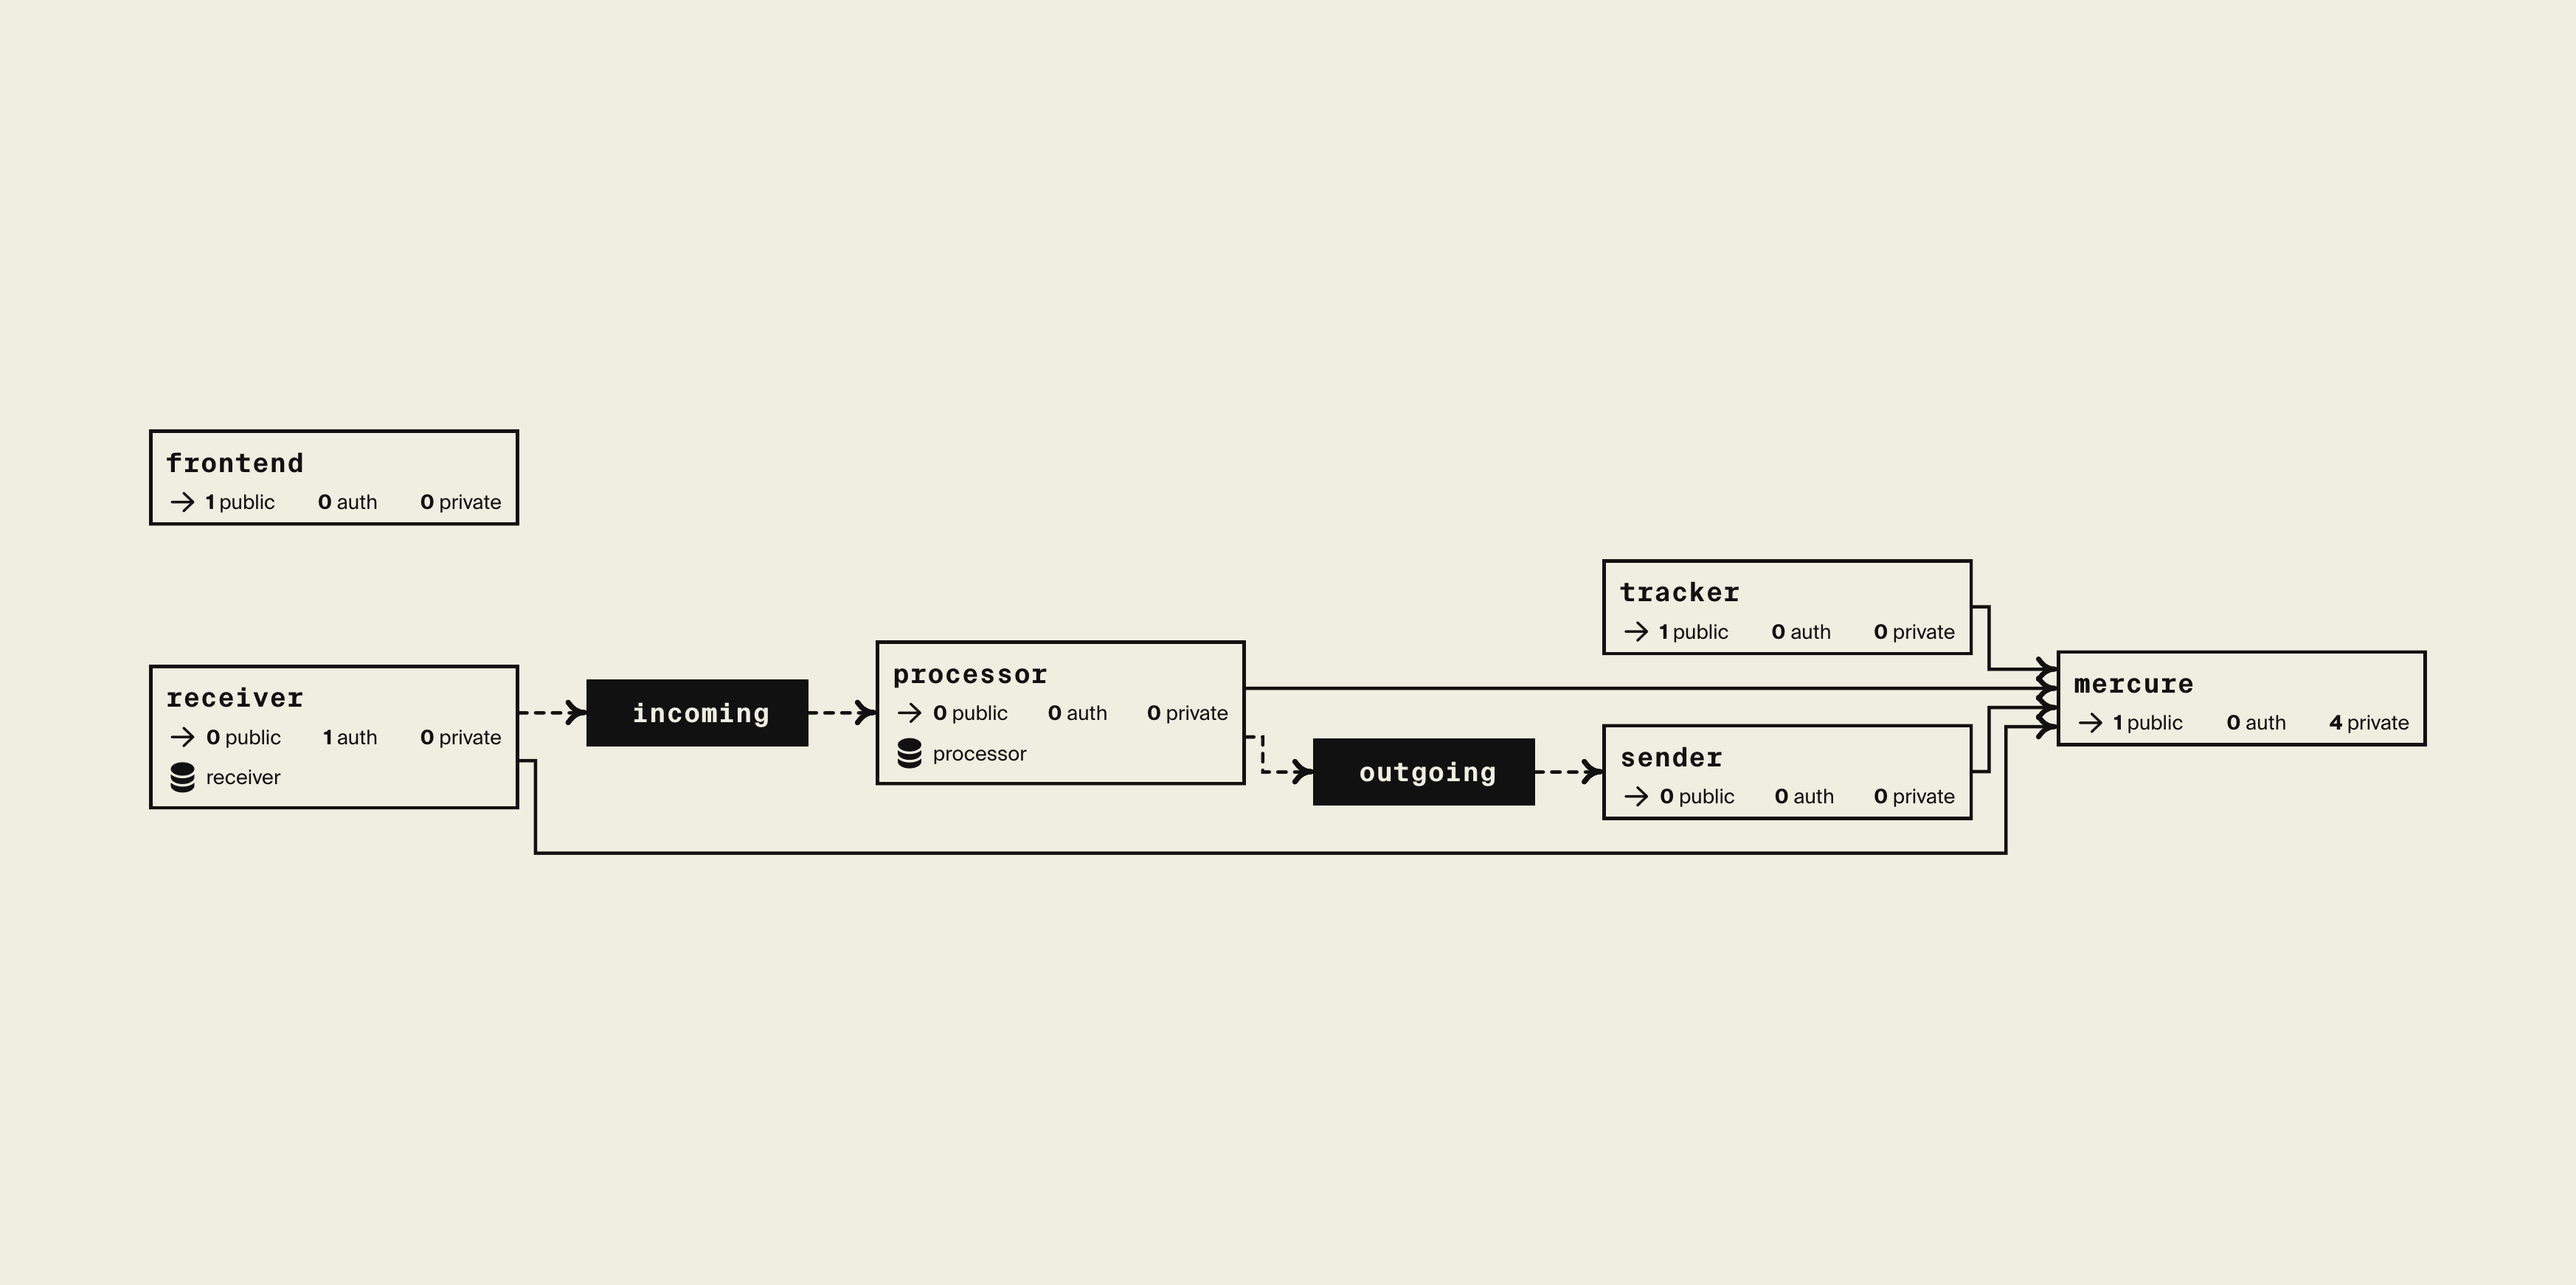
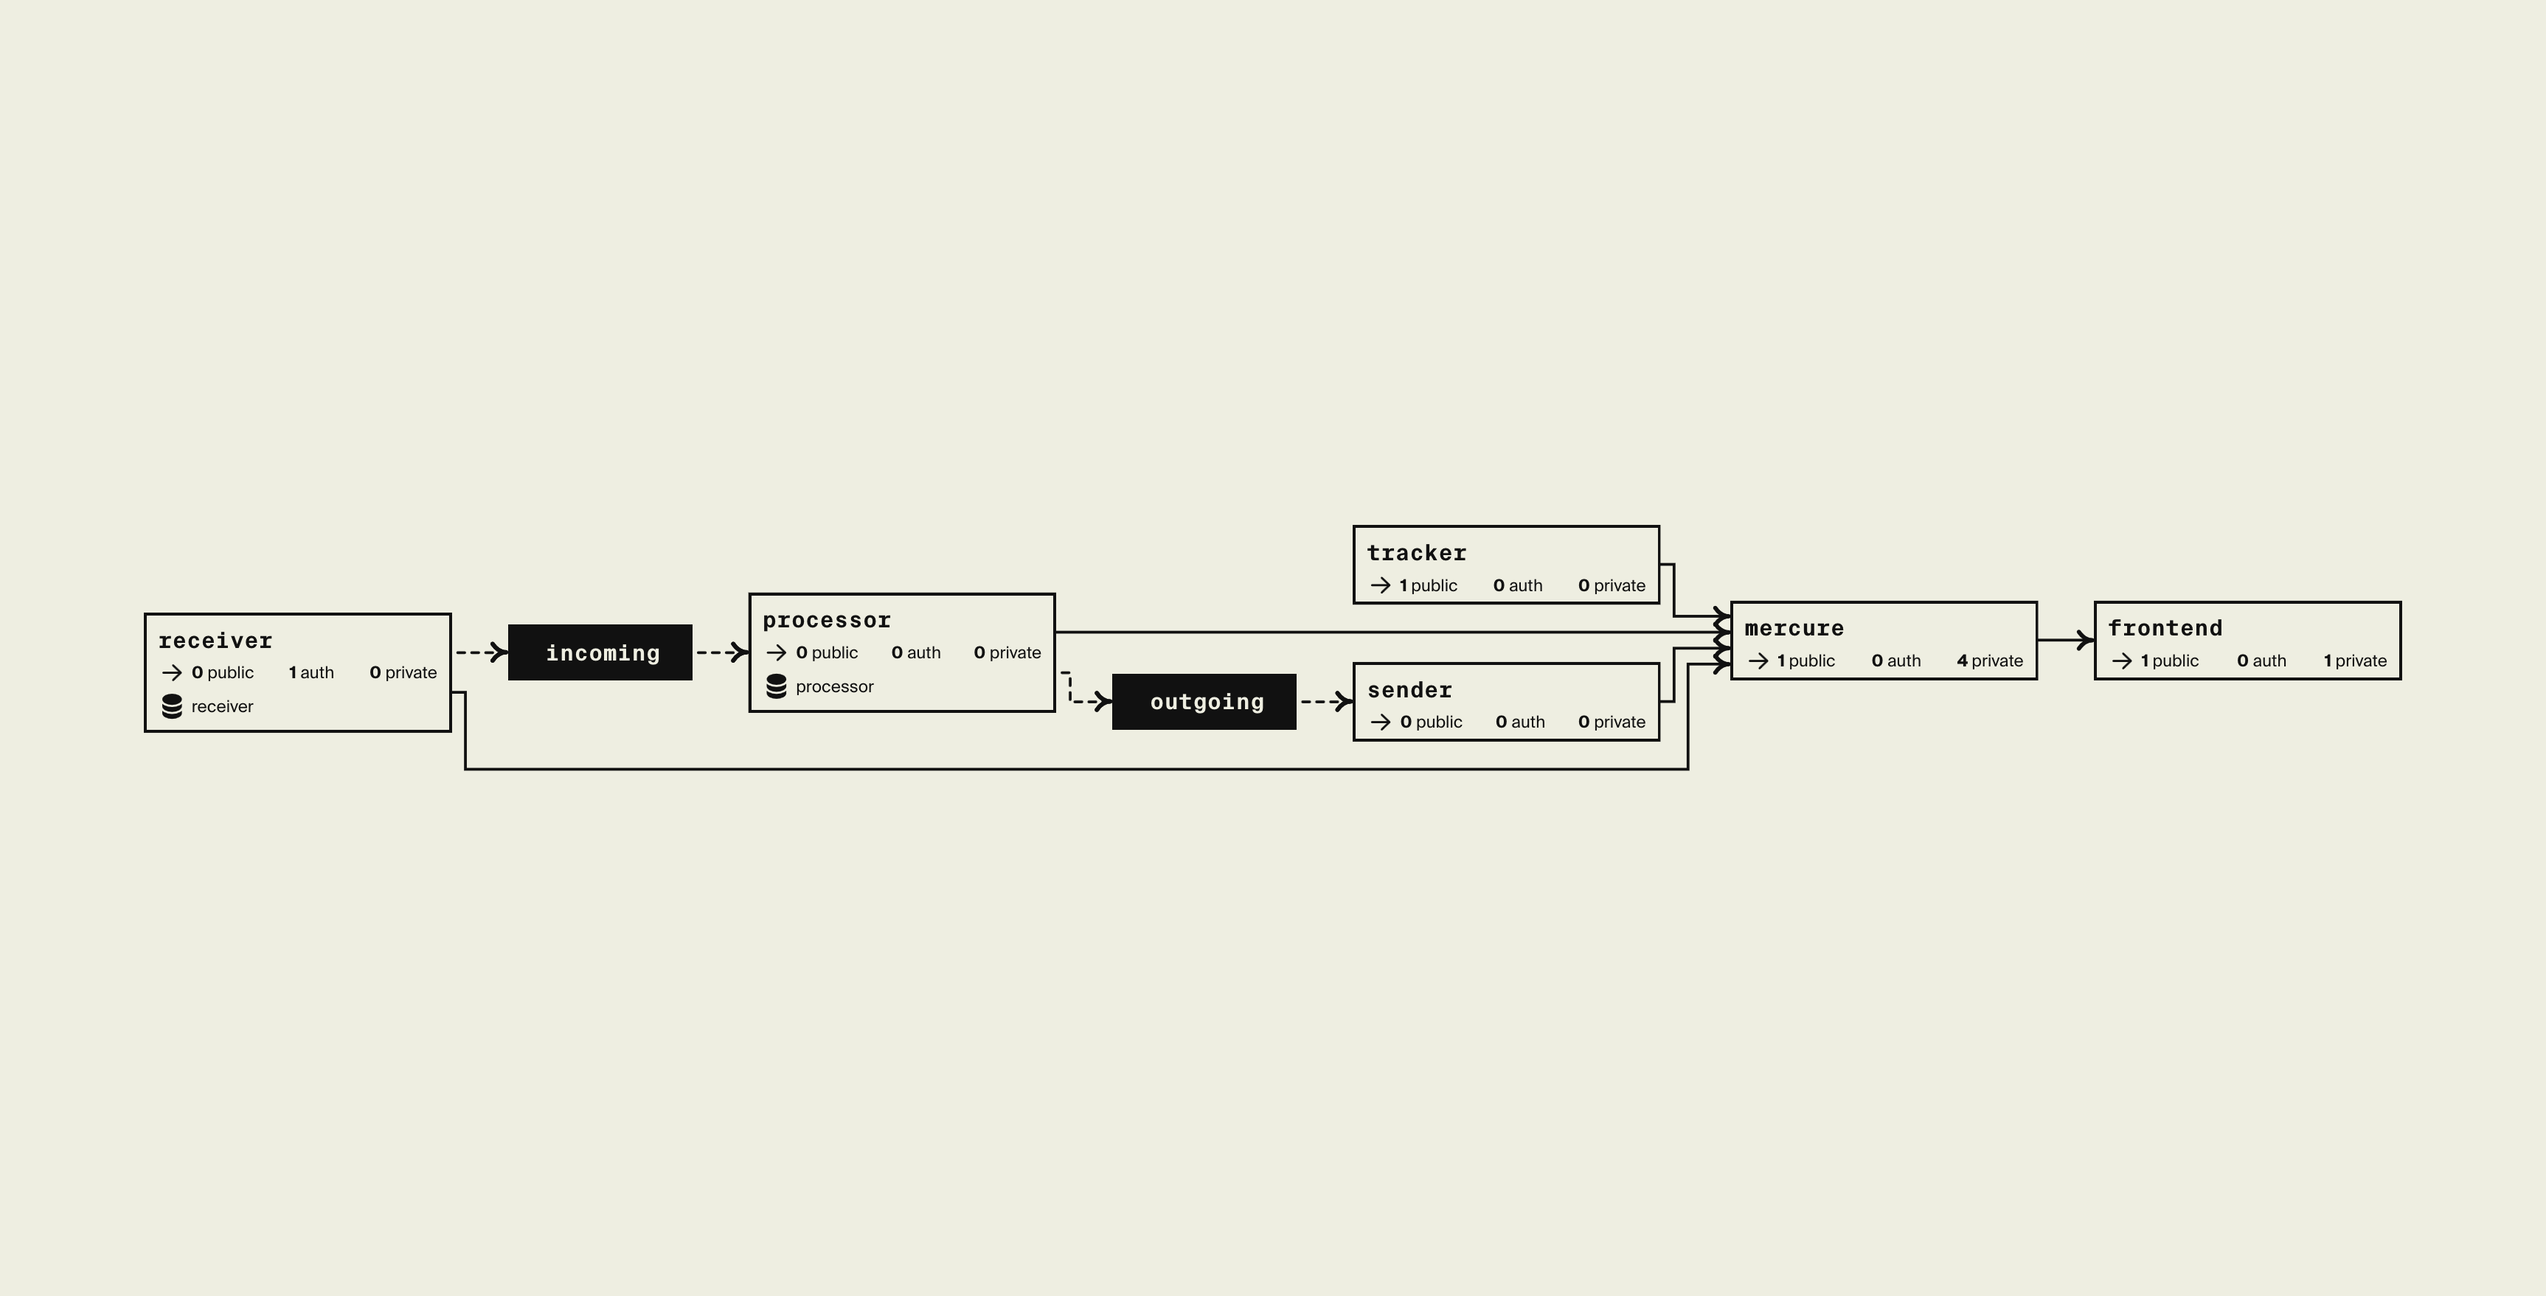
Add relationship between `mercure` and `frontend`

Changed region(s): [[0.062, 0.403, 0.9609, 0.651], [0.062, 0.341, 0.124, 0.403], [0.124, 0.372, 0.186, 0.403]]

diff --git a/mercure/mercure.go b/mercure/mercure.go
@@ -18,6 +18,7 @@ import (
 	"github.com/dunglas/mercure"
 	"github.com/golang-jwt/jwt/v5"
 
+	"encore.app/frontend"
 	"encore.app/pkg/events"
 	"encore.app/pkg/xerrs"
 )
@@ -104,6 +105,16 @@ func (s *Service) Serve(w http.ResponseWriter, req *http.Request) {
 	}
 
 	s.hub.ServeHTTP(w, req)
+}
+
+// Dummy exists to draw an arrow from mercure to the
+// frontend. In reality the frontend connects to the
+// raw Serve endpoint of mercure to subscribe to a
+// Server-Sent Events stream, but this relationship
+// isn't automatically inferred by Encore.
+func (s *Service) Dummy(context.Context) error {
+	frontend.Dummy(context.Background())
+	return nil
 }
 
 //encore:api private

diff --git a/frontend/frontend.go b/frontend/frontend.go
@@ -4,6 +4,7 @@ package frontend
 import (
 	"bytes"
 	"compress/gzip"
+	"context"
 	"crypto/sha256"
 	"crypto/subtle"
 	"embed"
@@ -28,6 +29,9 @@ var secrets struct {
 	MercureUsername string // the Mercure username
 	MercurePassword string // the Mercure password
 }
+
+//encore:api private
+func Dummy(context.Context) error { return nil }
 
 // Serve serves the frontend for development using a raw endpoint.
 // Learn more: https://encore.dev/docs/primitives/services-and-apis#raw-endpoints

diff --git a/README.md b/README.md
@@ -80,7 +80,7 @@ go run cmd/smtpd/smtpd.go
 * Return binary responses from an Encore API.
     * At the moment no actual tracking pixel is returned, but the behavior is approximated by returning `application/octet-stream` as the content type. It would be nicer if we could return the actual binary response for an image instead. If this is needed, one has to define a raw API endpoint instead.
 * Have some way to provide a relationship between services that are not automatically inferred.
-    * In this application the `frontend` relies on a public, raw endpoint defined in the `mercure` service. It would be nice if this could be shown in the application dependency diagram. If the relationship can't be inferred automatically, a workaround might be to define it manually.
+    * In this application the `frontend` relies on a public, raw endpoint defined in the `mercure` service. It would be nice if this could be shown in the application dependency diagram. The current workaround is to define dummy endpoints with the right relationship.
 * Support mTLS authentication, and do something with it in the app?
     * Haven't tried doing this using a raw endpoint yet, so maybe something can already be done, but it'll need some custom logic at least.
 * Offer some type of asynchronous job control
